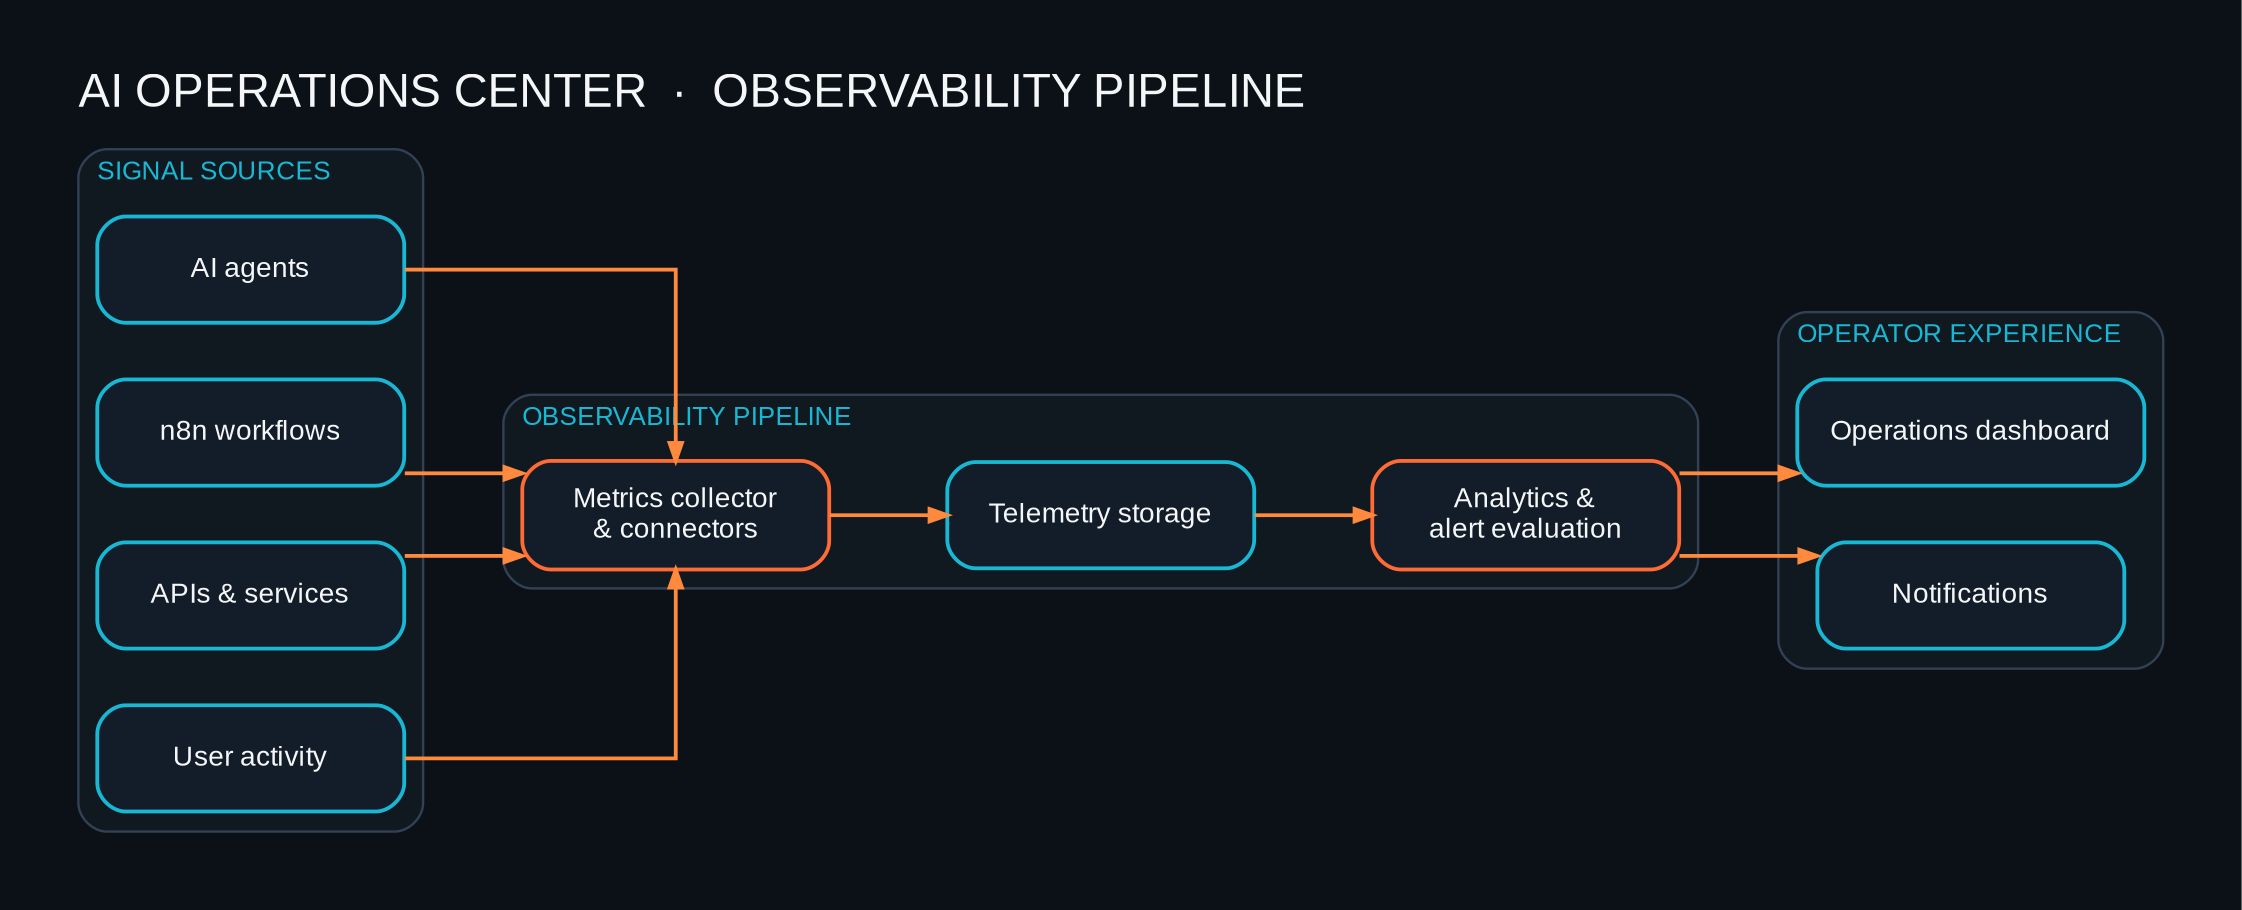
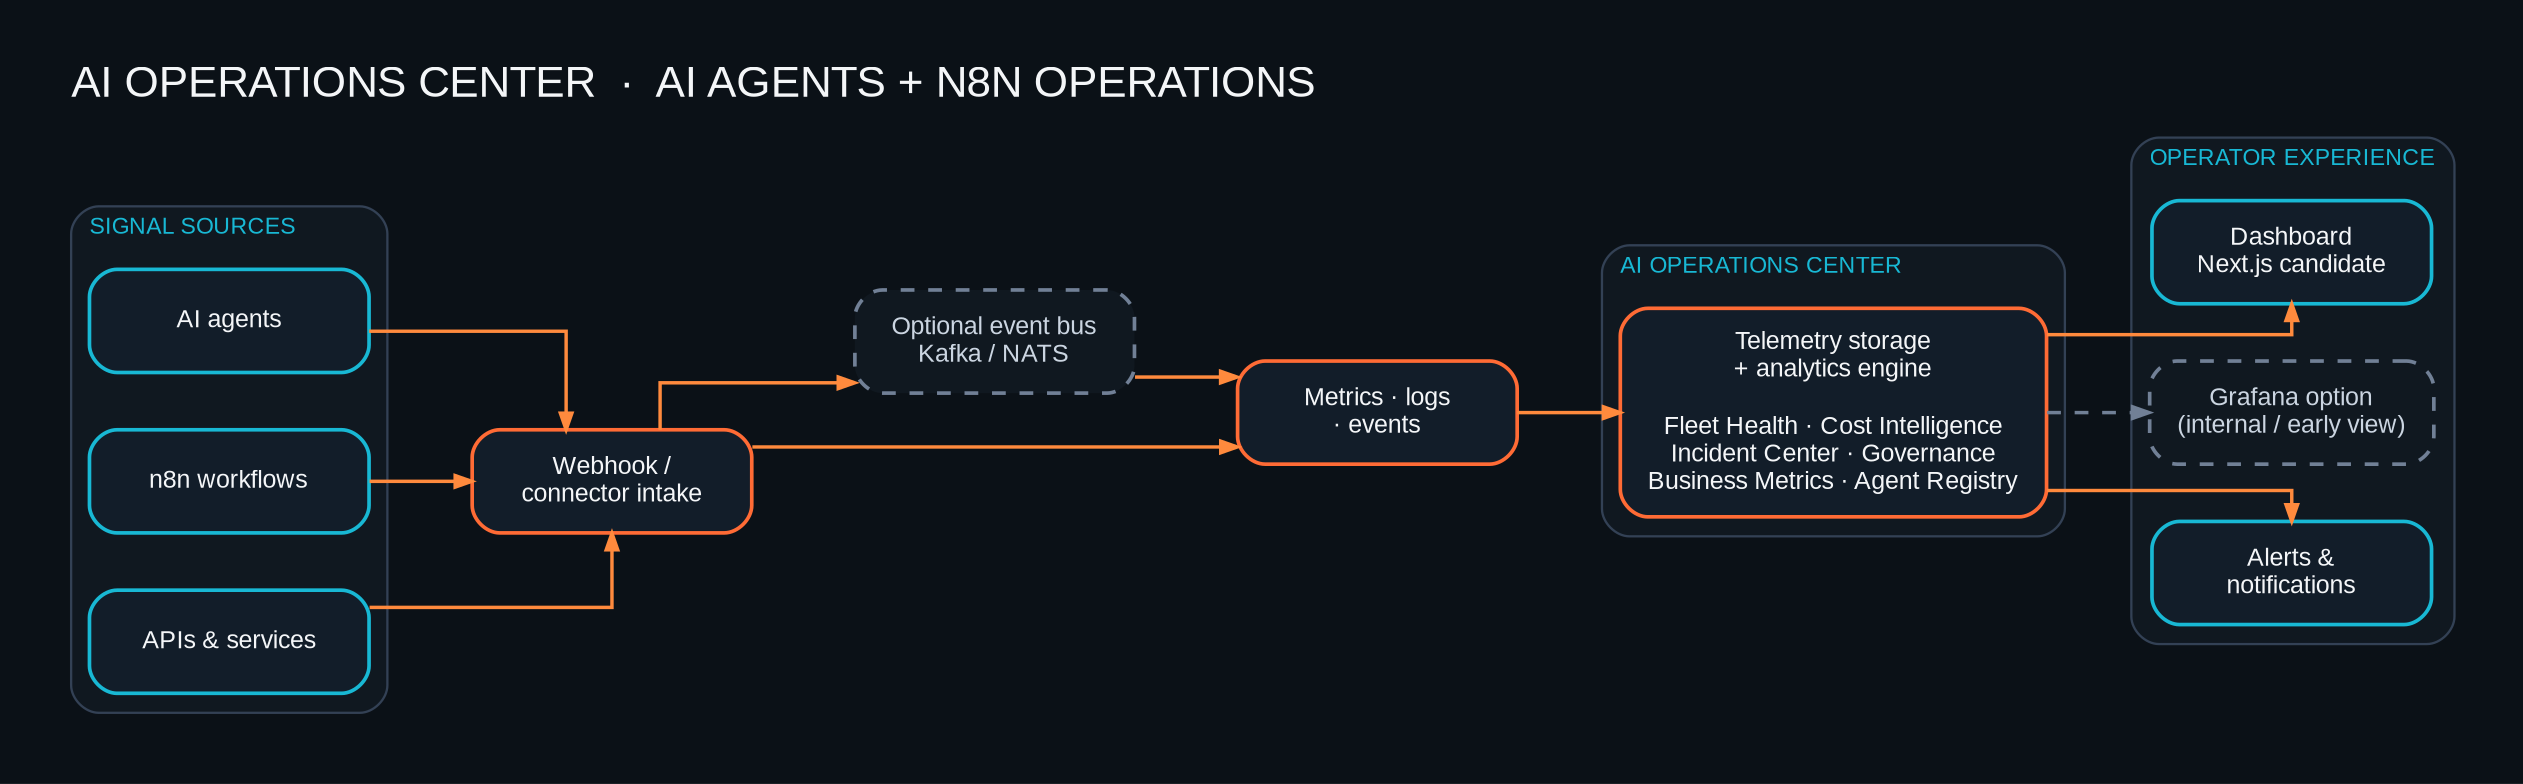
Add six-pillar AI operations product framing

diff --git a/README.md b/README.md
@@ -4,7 +4,9 @@
 
 # AI Operations Center
 
-**A centralized platform for monitoring and managing AI systems, workflows, APIs, and automation infrastructure.**
+**Datadog for AI Agents and n8n Automations** — a small-business operations layer for monitoring and managing AI systems, workflows, APIs, and automation infrastructure.
+
+*Positioning shorthand for the product direction; not a claim of feature parity with any existing platform.*
 
 The product is designed to provide near-real-time operational visibility into AI agents, workflow executions, token usage and estimated costs, API health, error rates, uptime, rate limits, and system performance.
 
@@ -31,23 +33,22 @@ The opportunity is a shared control plane that makes the health and activity of 
 
 The product is aimed at small businesses and lean teams that need practical visibility: enough context to notice incidents, diagnose common failures, understand consumption, and decide what needs attention—without turning operations into a full-time specialist discipline.
 
-## Key capabilities
+## Six product pillars
 
-| Capability | What an operator should be able to answer |
+| Pillar | Operational visibility |
 | --- | --- |
-| **Agent monitoring** | Which agents are active, what their recent run status is, and where failures or delays are occurring. |
-| **Workflow analytics** | How n8n workflows are executing, how often they succeed or fail, and which workflows need review. |
-| **API health tracking** | Whether connected services are responding, how errors and latency are trending, and when rate limits are being reached. |
-| **Token and cost reporting** | How AI consumption is changing over time, with costs clearly identified as estimates unless authoritative billing data is available. |
-| **Error detection** | Which failures are recurring, which components are affected, and what operational action is appropriate. |
-| **Uptime and health** | Whether monitored services and critical workflow paths are available and meeting their configured health expectations. |
-| **Usage analytics** | How the platform is being used, presented with privacy-conscious aggregation and access controls. |
-| **Operations dashboards** | A prioritized overview of health, activity, usage, and items that need attention. |
-| **Alerting framework** | A foundation for configurable notifications when important thresholds or state changes occur. |
+| **Fleet Health** | Agent status, workflow success, API availability and latency, and service uptime. |
+| **Cost Intelligence** | Token consumption, model spend, and workflow execution costs; clearly distinguish estimates from authoritative provider billing. |
+| **Incident Center** | Failed workflows, API outages, agent exceptions, rate-limit events, and the context needed for triage. |
+| **Governance** | Audit logs, approval queues, human-in-the-loop controls, and privacy-aware access to operational activity. |
+| **Business Metrics** | Leads processed, calls booked, and optional revenue attribution—only from authorized sources and agreed definitions; no formulas or commercial rules are disclosed here. |
+| **Agent Registry** | A catalog of agents, workflows, and API dependencies with ownership, status, and documentation. |
+
+The center’s core promise is to help an operator answer: **What is failing? What is costing more than expected? What requires intervention?** The six pillars are product goals, not features already delivered by this concept repository.
 
 ## Architecture
 
-The system is modeled as an observability pipeline: operational sources emit or expose signals; connectors collect and normalize them; analytics identifies useful patterns; and the dashboard turns them into operator decisions.
+The system is modeled as an observability pipeline: operational sources emit or expose signals; connectors collect and normalize them; analytics maps those signals to the six product pillars; and the dashboard turns them into operator decisions. For a small-business MVP, start with webhooks and lightweight connectors. Add Kafka or NATS only if throughput, replay, or multi-consumer requirements justify their added operating cost.
 
 <p align="center">
   <img src="diagrams/ai-operations-center-architecture.png" alt="AI Operations Center architecture: agents and n8n/API workflows send signals to a metrics collector, storage, analytics and alerting, and the operations dashboard" width="100%" />
@@ -55,8 +56,8 @@ The system is modeled as an observability pipeline: operational sources emit or 
 
 ```text
 AI agents ───────┐
-n8n workflows ───┼──> Metrics collector ──> Telemetry storage ──> Analytics & alerts ──> Operations dashboard
-APIs/services ──┘                                                                    └──> Notifications
+n8n workflows ───┼──> Webhook / connector intake ──> Optional event bus ──> Metrics, logs & events ──> Six pillars ──> Dashboard
+APIs/services ──┘                      (Kafka/NATS only if needed)                                        └──> Alerts
 ```
 
 The architecture is conceptual. It intentionally avoids vendor-specific endpoints, event schemas, customer data, and production topology. See [`diagrams/architecture.dot`](diagrams/architecture.mmd) and [`docs/architecture.md`](docs/architecture.md) for the source and design notes.
@@ -67,9 +68,10 @@ This is a **proposed stack for an implementation**, not a statement that the sof
 
 | Area | Proposed technology | Intended role |
 | --- | --- | --- |
-| Dashboard | **TypeScript** with a modern web UI | Responsive operational views, filtering, drill-down, and workflow-health summaries. |
+| Dashboard | **TypeScript**; Next.js is a candidate | A focused product interface for responsive operational views. Grafana is an option for internal or early-stage visualization; no UI framework is selected yet. |
 | Service layer | **Python** | Integration coordination, metric processing, analytics tasks, and API services. |
-| Integration contracts | **REST APIs and webhooks** | Connectors for agents, n8n workflows, and external services. |
+| Integration contracts | **REST APIs and webhooks** | Initial connectors for agents, n8n workflows, and external services. |
+| Event transport | **Webhooks first; Kafka/NATS optional** | Begin with the simplest reliable transport; evaluate a bus only when scale, replay, or fan-out requirements justify it. |
 | Workflow signals | **n8n** | Workflow execution and health signals exposed through appropriate supported integrations. |
 | Observability model | **Metrics, events, and error summaries** | A normalized view across sources, without requiring raw prompt or customer data. |
 | Storage | **Pluggable telemetry storage** | Selected later based on volume, retention, query needs, and operating cost. |
@@ -93,6 +95,14 @@ This is a **proposed stack for an implementation**, not a statement that the sof
 - **Cost transparency:** separate measured provider charges from estimates based on usage and pricing assumptions.
 - **Privacy by design:** collect only the operational metadata needed; avoid retaining prompts, secrets, or unnecessary customer content.
 - **Small-business operability:** favor clear defaults, simple onboarding, and understandable actions over complex enterprise configuration.
+
+
+## Architecture choices to validate
+
+- **Ingestion:** Start with supported webhooks and lightweight polling where needed. Kafka or NATS may become appropriate if the product demonstrates a need for durable replay, sustained event volume, or multiple independent consumers; they are not default infrastructure for a small-business MVP.
+- **Dashboard:** A Next.js/TypeScript interface could support a cohesive customer-facing SaaS experience. Grafana may accelerate an internal or early operational dashboard. Validate the operator experience before committing to either approach.
+- **Signal types:** Keep metrics, events, and error summaries distinct, preserving source and freshness. Avoid collecting raw prompts or customer content as a shortcut to debugging.
+- **Business metrics:** Leads, bookings, and attribution are opt-in product views dependent on authorized data sources and definitions. No revenue-calculation logic or actual business results are included in this repository.
 
 ## Challenges this project addresses
 

diff --git a/docs/architecture.md b/docs/architecture.md
@@ -5,10 +5,11 @@ AI Operations Center is a portfolio concept for a cross-system observability pip
 ## Logical stages
 
 1. **Signal sources:** AI agents, n8n workflows, connected APIs and services, and relevant user-activity events.
-2. **Metrics collector and connectors:** collect supported telemetry, normalize comparable signals, and preserve source attribution and freshness.
-3. **Telemetry storage:** retain operational signals according to future volume, access, cost, privacy, and retention requirements. The storage technology is intentionally undecided.
-4. **Analytics and alert evaluation:** aggregate activity, highlight errors and usage trends, and evaluate operator-configured alert conditions.
-5. **Operations dashboard and notifications:** present a prioritized operational view and deliver actionable alerts.
+2. **Event intake:** start with webhooks and lightweight connectors; use polling only where source capabilities require it. Preserve source attribution and freshness.
+3. **Optional event transport:** Kafka or NATS may be evaluated for durable replay, sustained volume, or multiple consumers; neither is a default MVP dependency.
+4. **Telemetry storage:** retain operational signals according to future volume, access, cost, privacy, and retention requirements. The storage technology is intentionally undecided.
+5. **Analytics and alert evaluation:** aggregate activity, highlight errors and usage trends, and evaluate operator-configured alert conditions.
+6. **Operations dashboard and notifications:** present a prioritized operational view and deliver actionable alerts.
 
 ## Design concerns
 
@@ -19,3 +20,9 @@ AI Operations Center is a portfolio concept for a cross-system observability pip
 - Raw prompts, secrets, and unnecessary customer content should not be collected as routine telemetry.
 
 The diagram in `../diagrams/architecture.dot` is a conceptual flow. It does not define endpoints, event schemas, deployment topology, vendor-specific APIs, or a production storage model.
+
+## Dashboard options
+
+A customer-facing TypeScript/Next.js interface could provide a cohesive SaaS experience. Grafana may accelerate an internal or early-stage operational view. This is a product decision to validate, not a selected framework.
+
+The operator-facing concepts are organized around Fleet Health, Cost Intelligence, Incident Center, Governance, Business Metrics, and Agent Registry. Business metrics depend on explicit authorization and agreed definitions; cost values should separate estimates from confirmed billing.

diff --git a/docs/product-brief.md b/docs/product-brief.md
@@ -31,3 +31,13 @@ A credible first release should favor a read-only operational view over broad au
 - Can the product meet privacy, access-control, and retention expectations for small teams?
 
 No numeric outcomes are claimed; these are validation questions for future product discovery and implementation.
+
+## Product pillars
+
+The product direction is organized around six operator-facing areas: **Fleet Health**, **Cost Intelligence**, **Incident Center**, **Governance**, **Business Metrics**, and **Agent Registry**. Each pillar should help answer a specific operational question, rather than becoming a collection of disconnected charts.
+
+Business metrics such as leads processed, calls booked, or revenue attribution should appear only when the customer has authorized the source and the definition is clear. Cost values should distinguish estimates from provider-reported charges.
+
+## Positioning and architecture choices
+
+The shorthand “Datadog for AI Agents and n8n Automations” communicates the product category; it is not a claim of feature parity with existing observability products. For an MVP, begin with webhooks and lightweight connectors. Kafka or NATS should remain optional until volume, replay, or fan-out needs justify the operational overhead. A custom TypeScript/Next.js UI and Grafana-based internal views are candidates to validate, not settled implementation choices.
